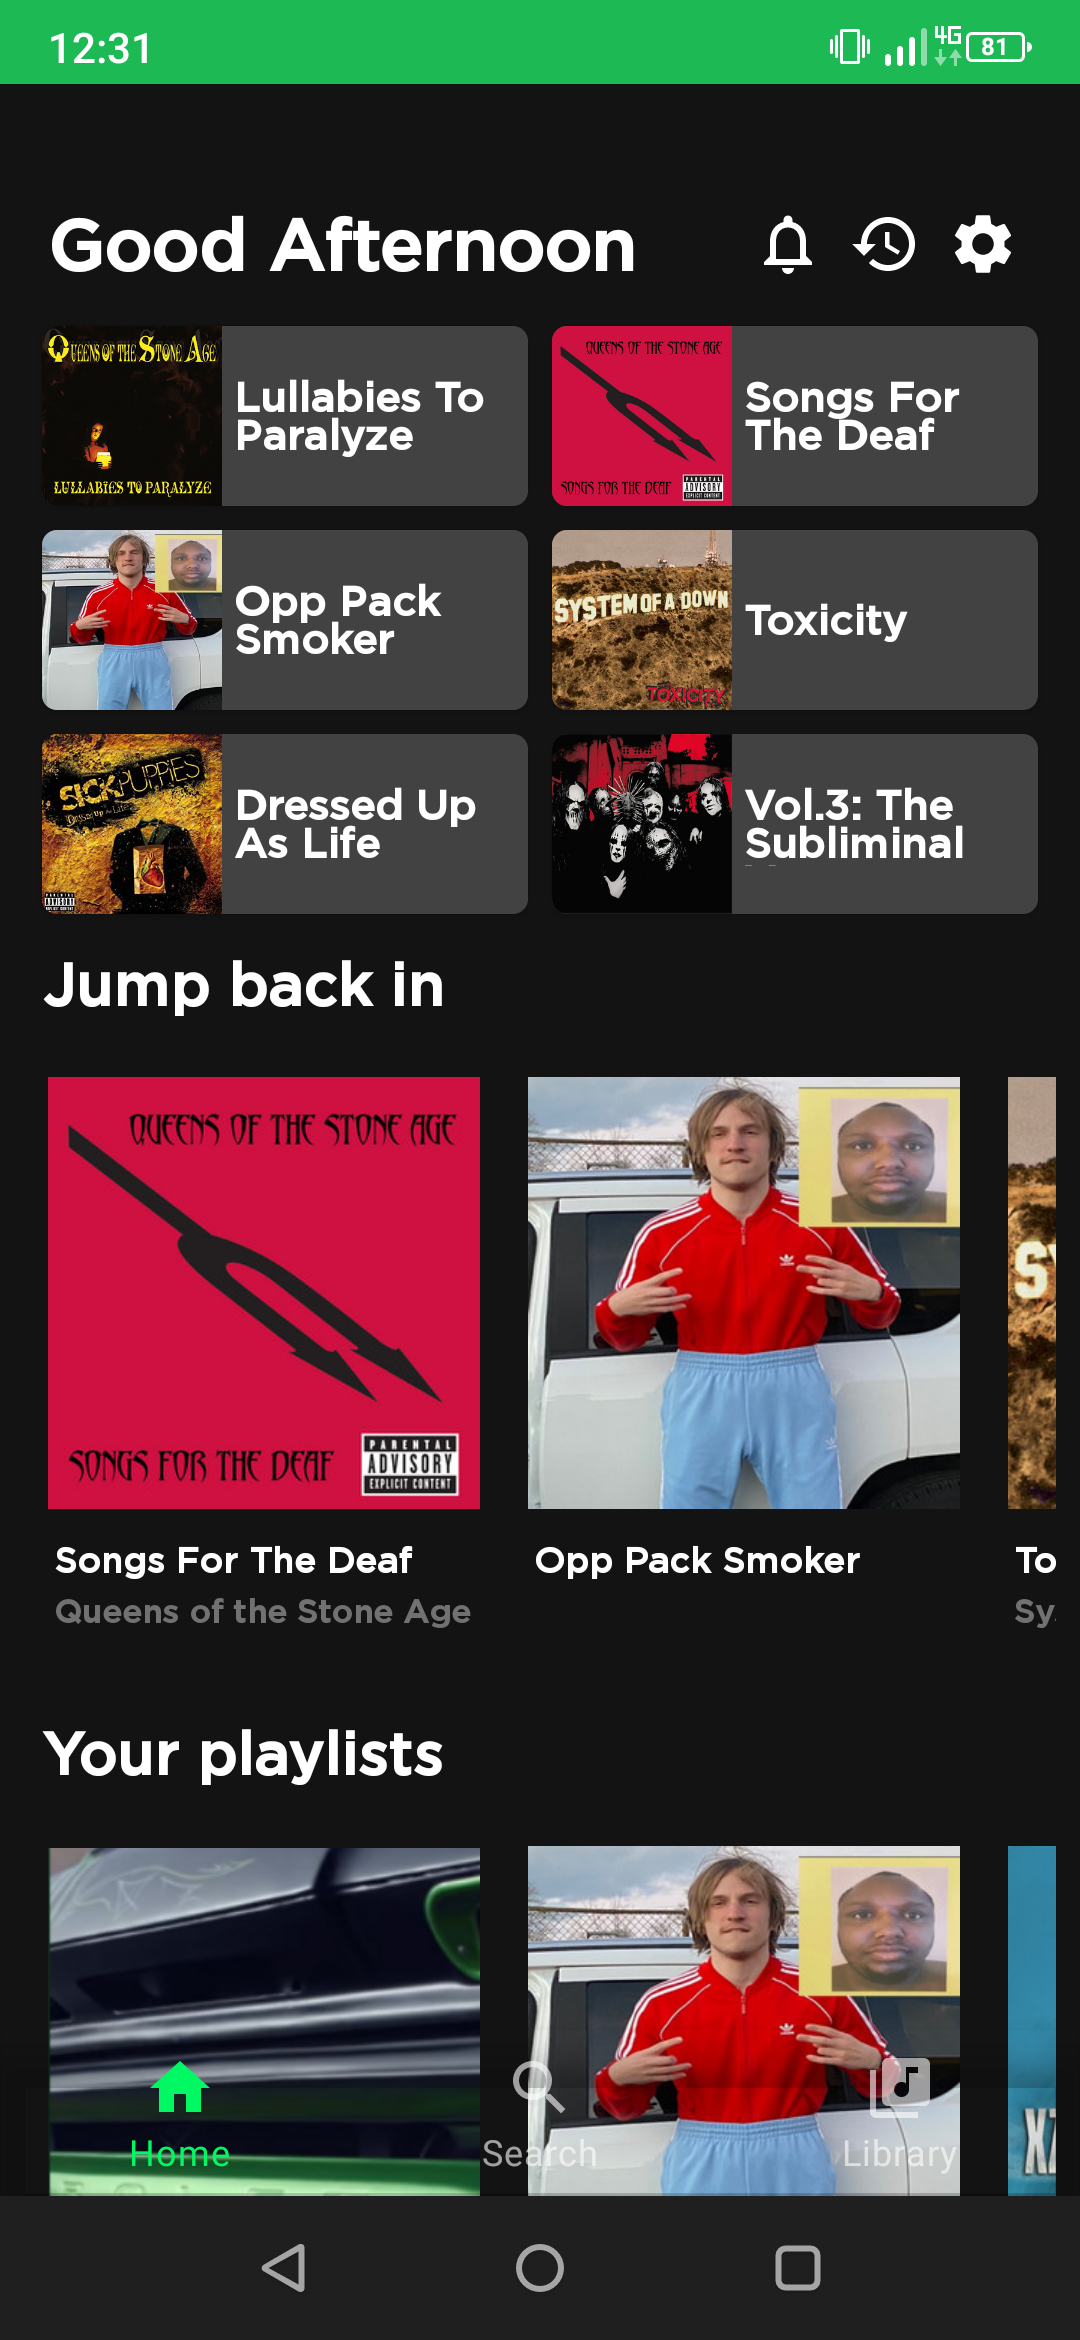
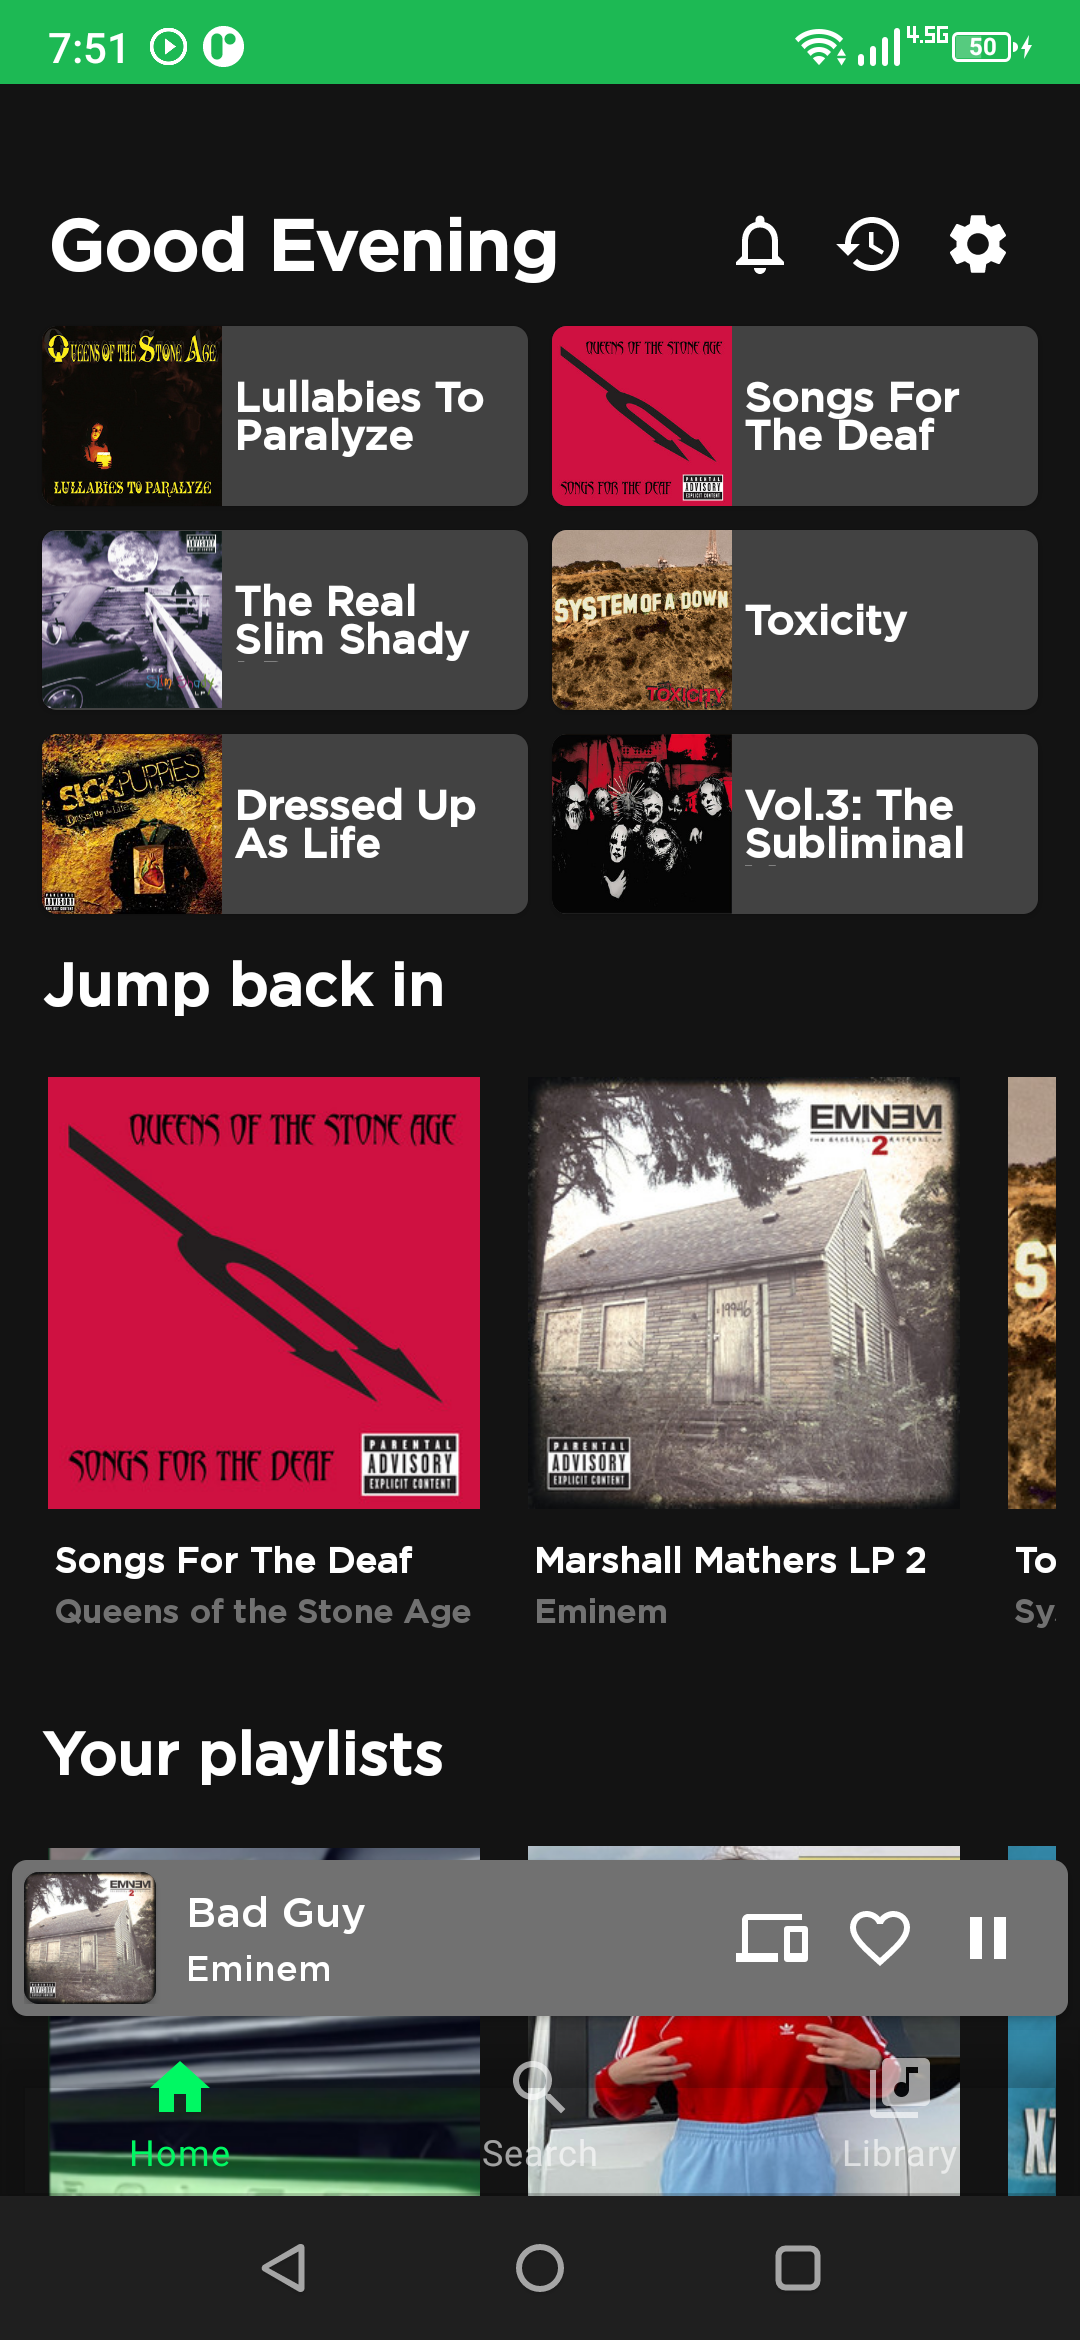
edit stuff

diff --git a/app/src/main/java/com/example/spotifyclone555/data/Data.kt b/app/src/main/java/com/example/spotifyclone555/data/Data.kt
@@ -204,16 +204,16 @@ class DataC {
 
         val a4_song0 = Song(0,"Restless","Xzibit","Front 2 Back",
             "https://github.com/utkuoruc/spotify_repo/raw/master/music/front-2-back.mp3",
-            "https://github.com/utkuoruc/spotify_repo/raw/master/cover/damn.jpeg")
+            "https://github.com/utkuoruc/spotify_repo/raw/master/cover/restless.jpeg")
         val a4_song1 = Song(1,"Restless","Xzibit","X",
-            "https://github.com/utkuoruc/spotify_repo/raw/master/music/x.mp3",
-            "https://github.com/utkuoruc/spotify_repo/raw/master/cover/damn.jpeg")
+            "https://github.com/utkuoruc/spotify_repo/raw/master/music/xzibit-x.mp3",
+            "https://github.com/utkuoruc/spotify_repo/raw/master/cover/restless.jpeg")
         val a4_song2 = Song(2,"Restless","Xzibit","D.N.A. (Drugs-N-Alkahol)",
             "https://github.com/utkuoruc/spotify_repo/raw/master/music/dna-drugs-n-alkahol.mp3",
-            "https://github.com/utkuoruc/spotify_repo/raw/master/cover/damn.jpeg")
+            "https://github.com/utkuoruc/spotify_repo/raw/master/cover/restless.jpeg")
         val a4_song3 = Song(3,"Restless","Xzibit","Don't Approach Me",
             "https://github.com/utkuoruc/spotify_repo/raw/master/music/dont-aproach-me.mp3",
-            "https://github.com/utkuoruc/spotify_repo/raw/master/cover/damn.jpeg")
+            "https://github.com/utkuoruc/spotify_repo/raw/master/cover/restless.jpeg")
 
         val a5_song0 = Song(0,"DAMN.","Kendrick Lamar","BLOOD.",
             "https://github.com/utkuoruc/spotify_repo/raw/master/music/blood.mp3",

diff --git a/app/src/main/java/com/example/spotifyclone555/ui/home/HomeTimelineFactory.kt b/app/src/main/java/com/example/spotifyclone555/ui/home/HomeTimelineFactory.kt
@@ -10,7 +10,7 @@ class HomeTimelineFactory {
 
             val albums = DataC.getAlbums()
 
-            val albumView1 = ItemView(arrayListOf(albums[1],albums[2],albums[3]),
+            val albumView1 = ItemView(arrayListOf(albums[1],albums[11],albums[3]),
                 ViewTypes.ALBUM_HORIZONTAL_RECYCLER.viewType,"Jump back in")
             val albumView2 = ItemView(arrayListOf(albums[4],albums[2],albums[9]),
                 ViewTypes.ALBUM_HORIZONTAL_RECYCLER.viewType,"Your playlists")
@@ -19,7 +19,7 @@ class HomeTimelineFactory {
             val albumView4 = ItemView(arrayListOf(albums[1],albums[2],albums[3],albums[4],albums[5],albums[6],albums[7],albums[0]),
                 ViewTypes.ALBUM_HORIZONTAL_RECYCLER.viewType,"2000's Metal")
 
-            val albumView5 = ItemView(arrayListOf(albums[0],albums[1],albums[2],albums[3],albums[5],albums[6]),
+            val albumView5 = ItemView(arrayListOf(albums[0],albums[1],albums[10],albums[3],albums[5],albums[6]),
                 ViewTypes.ALBUM_SIX_PACK.viewType,"Example Text")
 
             val blank = ItemView(arrayListOf(),ViewTypes.BLANK.viewType,"Example Text")
